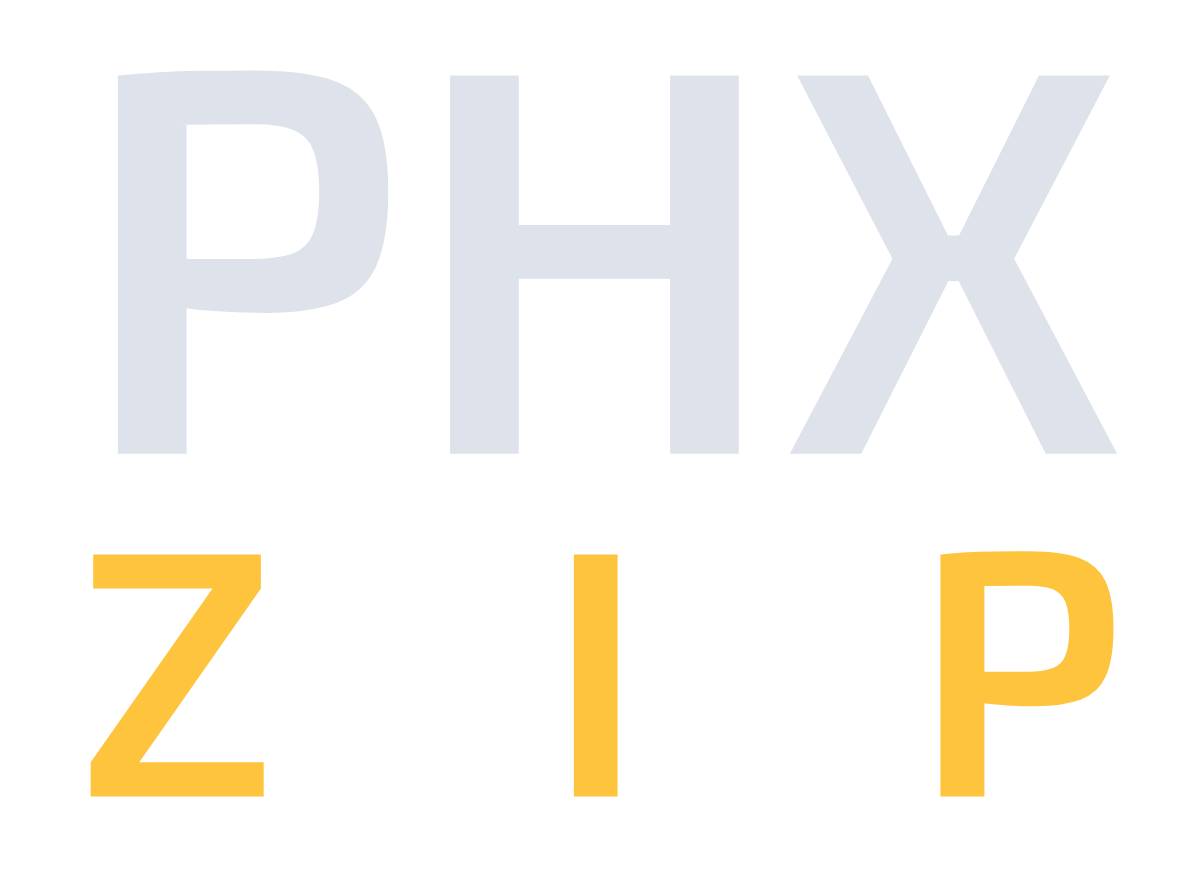
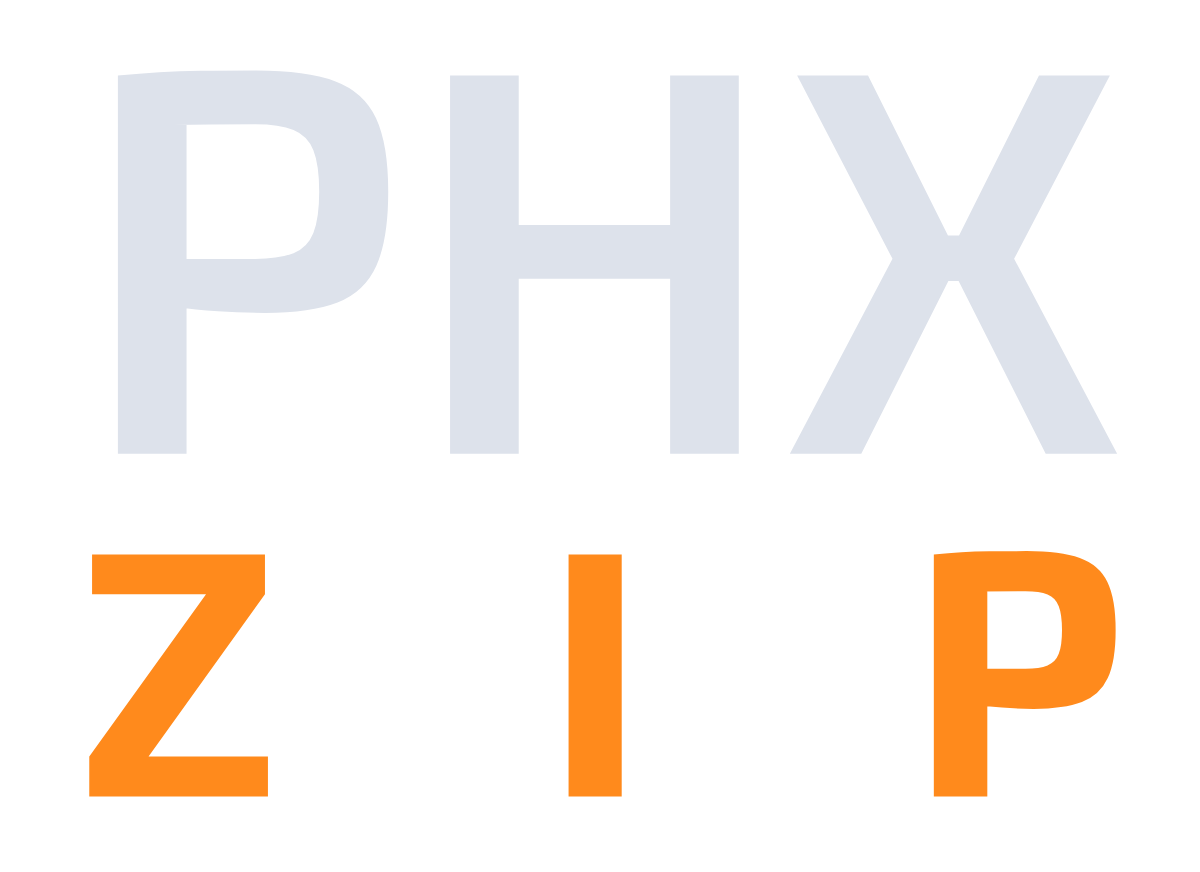
PhxZip: Z I P em negrito e laranja
Decisao do dono: «as letras z i p sao em negrito e laranja». No SVG da
marca, Z I P sai da Exo 2 Bold (700) em #FF8A1C; na tela, o mesmo peso e
a mesma cor. 700 e o teto da Exo 2 embutida no binario -- um peso acima
no SVG faria a marca e a tela divergirem. PHX continua prata, SemiBold.

Claude-Session: https://claude.ai/code/session_01658fzEFUWthwLwfYWqnmxR

Changed region(s): [[0.7708, 0.6193, 0.9558, 0.9289], [0.0617, 0.6193, 0.2467, 0.9289], [0.4625, 0.6193, 0.5242, 0.9289]]

diff --git a/phxsql/crates/phxzip-web/ui/index.html b/phxsql/crates/phxzip-web/ui/index.html
@@ -27,8 +27,9 @@
   /* «PHX / Z I P» (decisao do dono): Z I P espacado ate a largura de PHX,
      pelo flex -- a mesma conta do SVG da marca, sem letter-spacing chutado. */
   header h1.logo .l1 { font-size: 34px; letter-spacing: .01em; color: var(--texto); }
-  header h1.logo .l2 { display: flex; justify-content: space-between; font-size: 21px; margin-top: 5px; color: var(--acento); }
-  header h1.logo b { font-weight: 600; }
+  /* Z I P em negrito e laranja (decisao do dono): 700 e o teto da Exo 2 embutida. */
+  header h1.logo .l2 { display: flex; justify-content: space-between; font-size: 21px; margin-top: 5px; color: var(--laranja); }
+  header h1.logo b { font-weight: 700; }
     .ic { width: 16px; height: 16px; vertical-align: -3px; fill: none; stroke: currentColor; stroke-width: 2; stroke-linecap: round; stroke-linejoin: round; }
   .ic.pasta { color: var(--ambar); } .ic.cadeado { color: var(--laranja); } .ic.doc { color: var(--fraco); }
   header .sub { color: var(--fraco); font-size: 13px; margin-top: 9px; }

diff --git a/phxsql/marca/vetor/gerar.py b/phxsql/marca/vetor/gerar.py
@@ -23,6 +23,8 @@ from fontTools.varLib.instancer import instantiateVariableFont
 
 AQUI = Path(__file__).resolve().parent
 PRATA = "#DDE2EB"
+LARANJA = "#FF8A1C"
+FONTE_VARIAVEL = None  # o caminho do Exo2[wght].ttf, posto pelo main
 # Acento de cada produto -- so cores da paleta oficial (marca/LEIA-ME.md).
 # O PhxZip nao entra aqui: o logo dele e so a palavra (`phxzip_palavra`).
 FAMILIA = {
@@ -107,13 +109,15 @@ def horizontal(f, produto, acento, assinatura=True):
 
 
 def phxzip_palavra(f):
-    """Decisao do dono, 24/09/2026: «PHX / Z I P». O logo do PhxZip e a
-    palavra em duas linhas, sem desenho: PHX em prata em cima, e Z I P no
-    ambar do produto embaixo, espacado ate a largura exata de PHX -- as duas
-    linhas fecham o mesmo bloco."""
+    """Decisao do dono, 24/09/2026: «PHX / Z I P», e depois «as letras z i p
+    sao em negrito e laranja». O logo do PhxZip e a palavra em duas linhas,
+    sem desenho: PHX em prata (SemiBold) em cima, e Z I P em NEGRITO (Bold,
+    700 -- o teto da Exo 2 embutida na tela, para SVG e tela baterem) e
+    LARANJA embaixo, espacado ate a largura exata de PHX."""
     alt1, alt2 = 150, 96
     phx, larg1 = palavra(f, "PHX", alt1, lambda i, ch: PRATA)
-    letras = [palavra(f, ch, alt2, lambda i, c: "#FFC43D") for ch in "ZIP"]
+    negrito = fonte(FONTE_VARIAVEL, 700)
+    letras = [palavra(negrito, ch, alt2, lambda i, c: LARANJA) for ch in "ZIP"]
     # Z encosta na esquerda, P na direita, I no meio: o espaco sai da conta,
     # nao de um letter-spacing chutado.
     x_p = larg1 - letras[2][1]
@@ -195,6 +199,8 @@ def main():
     if len(sys.argv) != 2:
         print(__doc__)
         return 2
+    global FONTE_VARIAVEL
+    FONTE_VARIAVEL = sys.argv[1]
     f = fonte(sys.argv[1])
     (AQUI / "phx-simbolo-mono.svg").write_text(monocromatico(), encoding="utf-8")
     (AQUI / "phx-icone.svg").write_text(icone(), encoding="utf-8")

diff --git a/phxsql/marca/LEIA-ME.md b/phxsql/marca/LEIA-ME.md
@@ -114,7 +114,7 @@ tamanho novo era um recorte à mão. Agora:
 Decisão do dono, 24/09/2026, depois de três desenhos (morsa, cadeado, fênix
 sobre «Zip») recusados: *«Deixa a palavra PHXZIP.»*, e em seguida o
 desenho da palavra: *«PHX / Z I P»*. O logo são duas linhas em Exo 2
-SemiBold: **PHX** em prata em cima, e **Z I P** no âmbar do PhxZip embaixo,
+SemiBold: **PHX** em prata em cima, e **Z I P** em **negrito e laranja** (`#FF8A1C`, Exo 2 Bold) embaixo,
 espaçado até a largura exata de PHX (Z na esquerda, P na direita, I no
 meio — a conta sai do gerador, não de um espaçamento chutado). Nenhum
 desenho.
